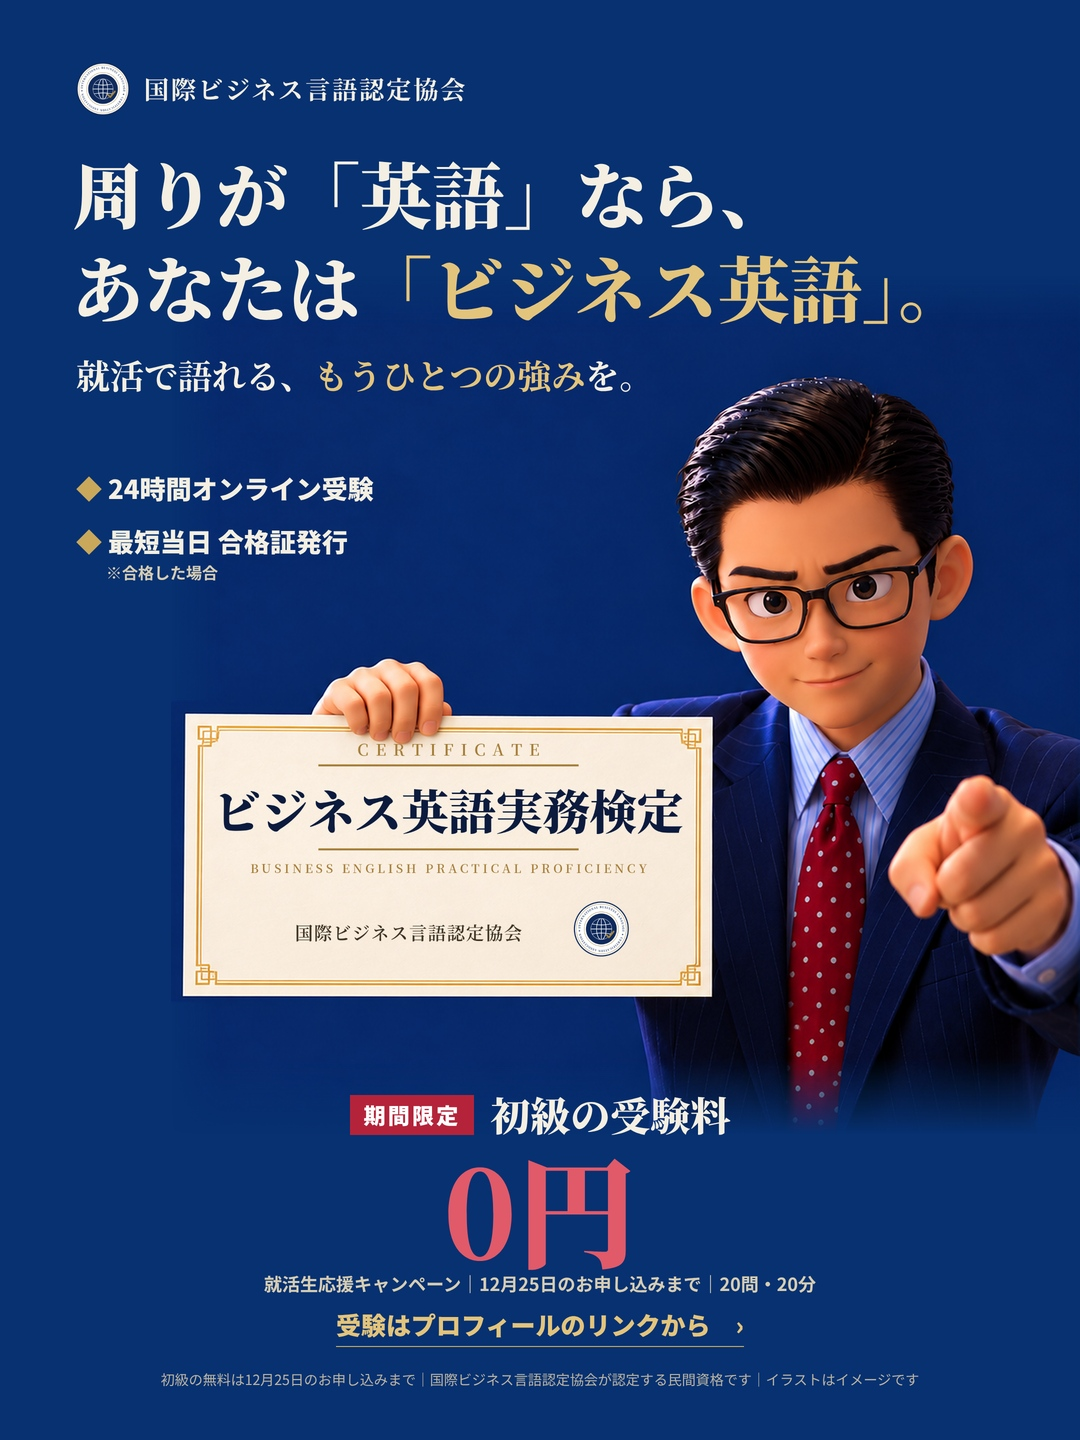
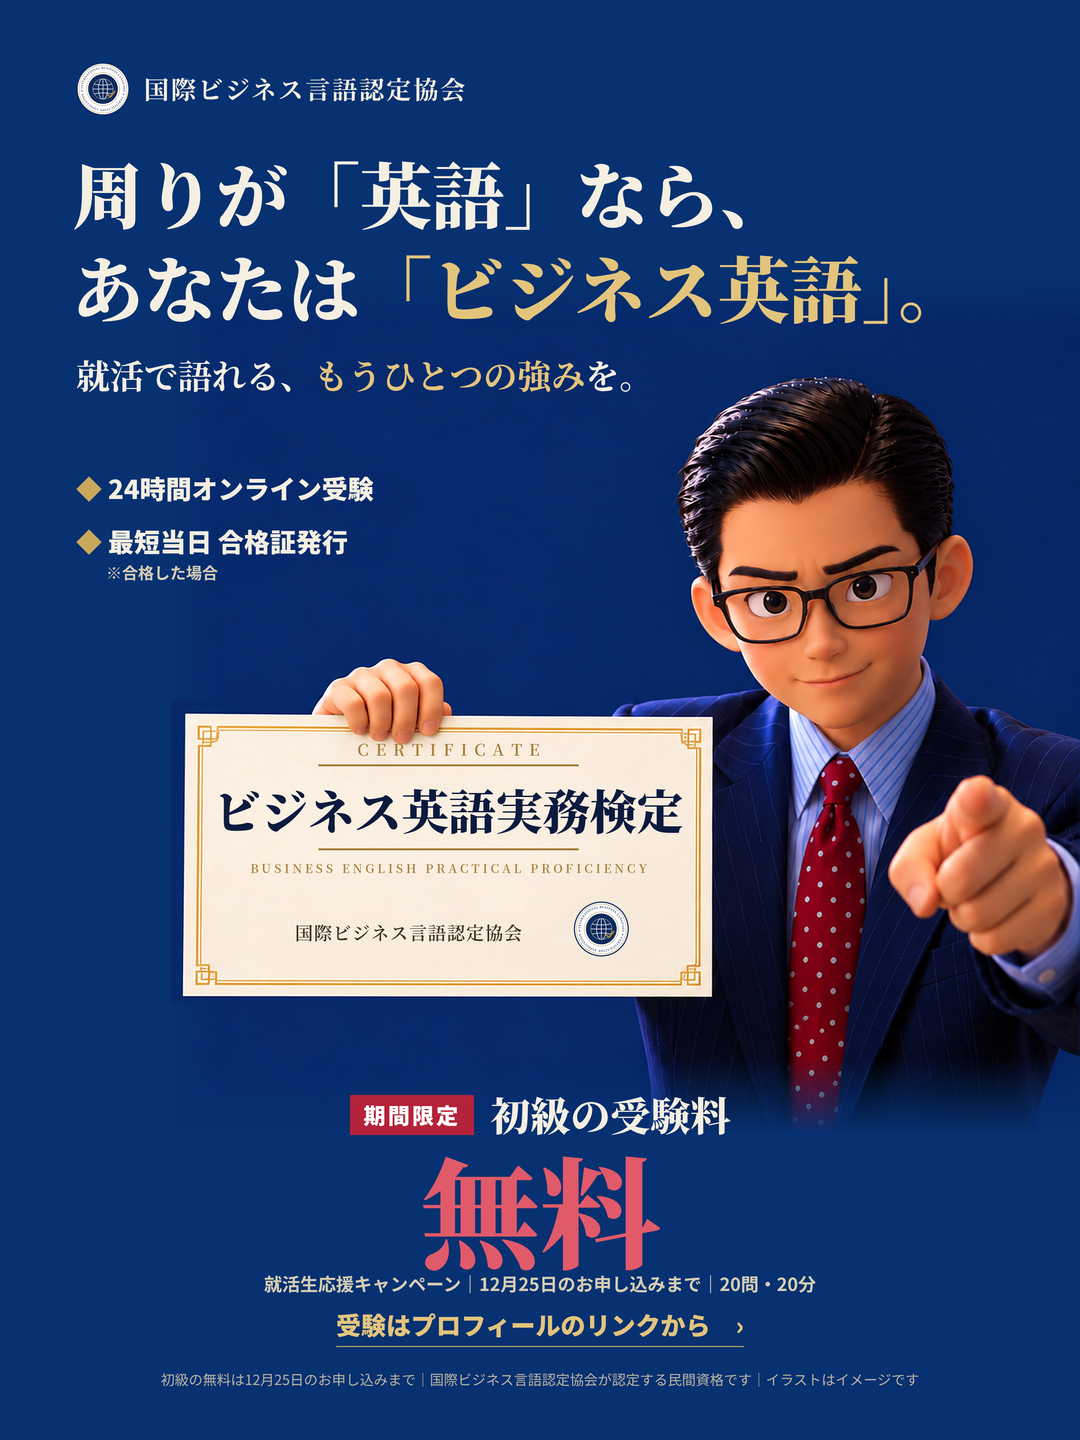
v27C：0円→無料
Claude-Session: https://claude.ai/code/session_014p5jL2LKN9C3tYKst8GaL5

diff --git a/content/posters/ig_v27C.html b/content/posters/ig_v27C.html
@@ -45,6 +45,6 @@ body{font-family:"Noto Sans CJK JP",sans-serif;color:#f4efe2;-webkit-font-smooth
 <div class="head">周りが「英語」なら、<br>あなたは<em>「ビジネス英語」。</em></div>
 <div class="sub">就活で語れる、<em>もうひとつの強み</em>を。</div>
 <div class="chips"><span>24時間オンライン受験</span><span>最短当日 合格証発行<small>※合格した場合</small></span></div>
-<div class="vC"><div class="row"><span class="tag">期間限定</span><span class="a">初級の受験料</span></div><div class="price"><b>0円</b></div><div class="d">就活生応援キャンペーン｜12月25日のお申し込みまで｜20問・20分</div><div class="c">受験はプロフィールのリンクから　›</div></div>
+<div class="vC"><div class="row"><span class="tag">期間限定</span><span class="a">初級の受験料</span></div><div class="price"><b>無料</b></div><div class="d">就活生応援キャンペーン｜12月25日のお申し込みまで｜20問・20分</div><div class="c">受験はプロフィールのリンクから　›</div></div>
 <div class="note">初級の無料は12月25日のお申し込みまで｜国際ビジネス言語認定協会が認定する民間資格です｜イラストはイメージです</div>
 </body></html>

diff --git a/log/posted.md b/log/posted.md
@@ -109,3 +109,4 @@
 - 2026-10-29 作成｜Instagram 固定投稿用 v26（決定版に差し替え）｜オーナーが作り直した絵（合格証が右上寄り）で作成、外枠なし｜未投稿（オーナーが自分で投稿）
 - 2026-10-29 書き出し｜インスタ固定投稿 決定版（v26）を最高画質で｜assets/images/IG_固定投稿_決定版_最高画質.png／.jpg（3240×4320、文字は高解像度で描き直し）。投稿用は IG_固定投稿_決定版.jpg（1080×1440・最高品質）
 - 2026-10-30 作成｜Instagram 固定投稿用 v27 下部の構成違い3案｜A：左右に分けて「無料」を特大／B：丸いバッジ＋「いまなら初級の受験料が0円」／C：期間限定の札＋「0円」特大｜未投稿
+- 2026-10-30 修正｜v27C の「0円」を「無料」に（オーナー指示）。最高画質版も書き出し
